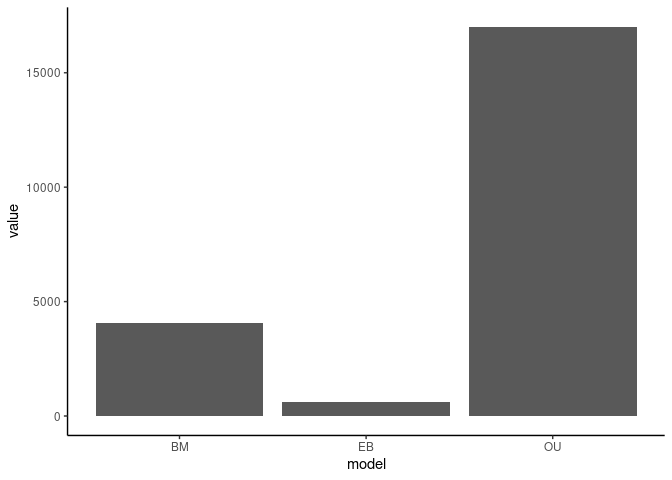
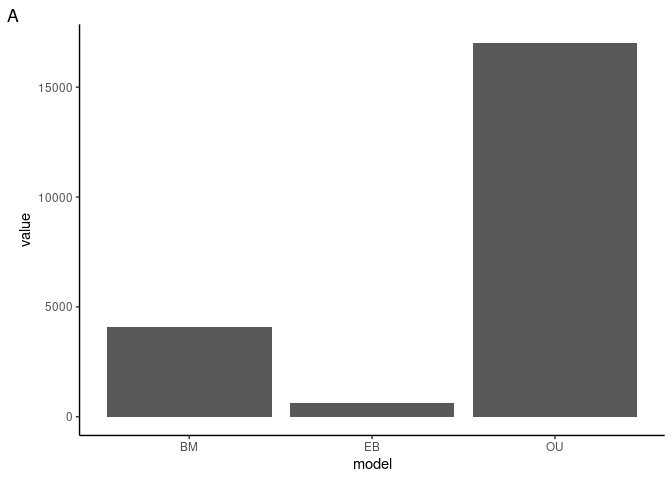
Cichlids analysis and script

diff --git a/cichlids/Analysis.md b/cichlids/Analysis.md
@@ -23,10 +23,6 @@ of each of those models for this data set.
 
 ## Summary Analysis
 
-``` r
-figure1
-```
-
 ![](Analysis_files/figure-gfm/unnamed-chunk-2-1.png)<!-- -->
 
 **Figure 1: Using the best-fit model (chosen by AIC) shows a very low
@@ -43,10 +39,18 @@ model(s) may be needed.
 
 ### Initial Arbutus Analysis
 
-**Figure 2. Relative fit (left) and absolute fit (right) of the
-protein-coding genes.** Overall, a OU model fits the data the best in a
-relative sense, and in an absolute sense the best-fit model is quite
-inadequate. C.var, d.cdf, and s.asr show meaningful inadequacy.
+![](Analysis_files/figure-gfm/unnamed-chunk-3-1.png)<!-- -->
+
+    ## `stat_bin()` using `bins = 30`. Pick better value with `binwidth`.
+
+    ## Warning: Removed 696 rows containing non-finite values (stat_bin).
+
+![](Analysis_files/figure-gfm/unnamed-chunk-3-2.png)<!-- -->
+
+**Figure 2. Relative fit (A) and absolute fit (B) of the protein-coding
+genes.** Overall, a OU model fits the data the best in a relative sense,
+and in an absolute sense the best-fit model is quite inadequate. C.var,
+d.cdf, and s.asr show meaningful inadequacy.
 
 <img src="arbutus/AIC/AIC_br_lnc.png" width="327"/>
 
@@ -64,17 +68,46 @@ inadequacies to protein-coding and lncRNA genes respectively. Because
 these inadequacies were related to c.var and s.asr, I hypothesize that a
 muti-rate BM model will better describe the data.
 
-``` r
-library(ape)
-tree <- read.tree("expression_data_and_trees/intree")
-plot(tree)
-```
-
-![](Analysis_files/figure-gfm/unnamed-chunk-4-1.png)<!-- -->
-
 However, to perform fitting using a BMS model, selective regimes need to
-be defined. In this case, I will use selective regimes following the
-ancestral history of these species. Using other information regarding
-the lifestyles of these fish may be more accurate and I will attempt to
-try that in the future. For my first BMS analysis, I will define
-selective regimes by cichlid “tribes”.
+be defined. To get around that issue I will use the
+[Motmot](https://github.com/PuttickMacroevolution/motmot) package to
+identify rate shifts. This package works by testing likelihoods of a
+rate shift per clade. Likelihood of a rate shift higher than a certain
+cutoff value will be considered shifts in evolutionary rate for that
+gene. The tree will then be split by evolutionary regimes before and
+after the rate shift; taking the guesswork out of the equation.
+
+![](Analysis_files/figure-gfm/unnamed-chunk-5-1.png)<!-- -->
+
+**Figure 4. Motmot analysis finds one rate shift in the tree.**
+
+Adequacy analysis of the protein data using a multiple-rate BM model
+produces the following figures.
+
+![](Analysis_files/figure-gfm/unnamed-chunk-7-1.png)<!-- -->
+
+    ## `stat_bin()` using `bins = 30`. Pick better value with `binwidth`.
+
+    ## Warning: Removed 890 rows containing non-finite values (stat_bin).
+
+![](Analysis_files/figure-gfm/unnamed-chunk-7-2.png)<!-- -->
+
+**Figure 5. Relative fit (A) and absolute fit (B) of protein-coding
+genes with addition of a BMS model.** Overall, a OU model fits the data
+the best in a relative sense, with BMS being a close second. In an
+absolute sense the best-fit model is very inadequate. C.var, d.cdf,
+s.asr, and c.var show meaningful inadequacy even while using a BMS
+model.
+
+Inadequacy of the data remains high even while using a BMS model,
+showing other factors may be at play causing inadequacies in c.var. I
+then wanted to quantify the effect of the addition of BMS.
+
+![](Analysis_files/figure-gfm/unnamed-chunk-9-1.png)<!-- -->
+
+**Figure 6: Addition of a multi-rate BM process does little to lower the
+inadequacies found in the data, with similar proportions of inadequacies
+before and after usage.**
+
+Overall this shows that with this data set there must be other
+considerations not due to multiple rates on different branches.
